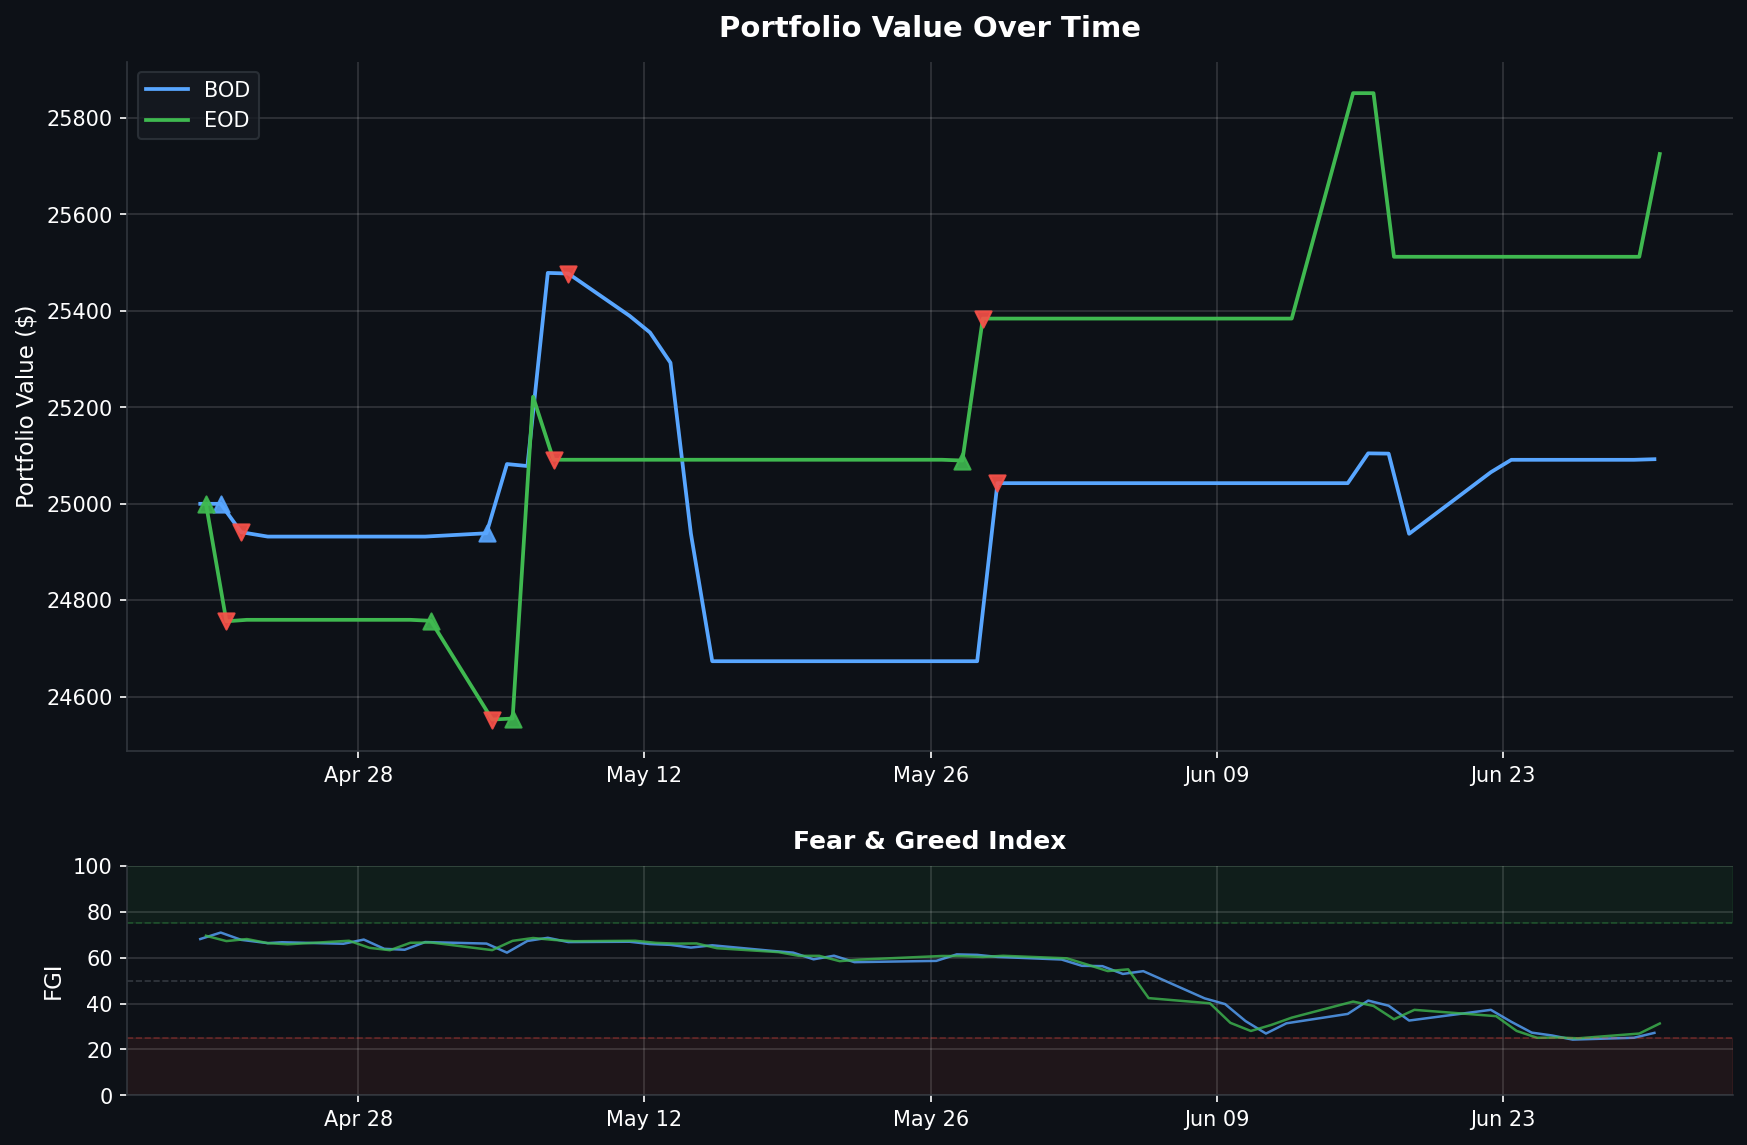
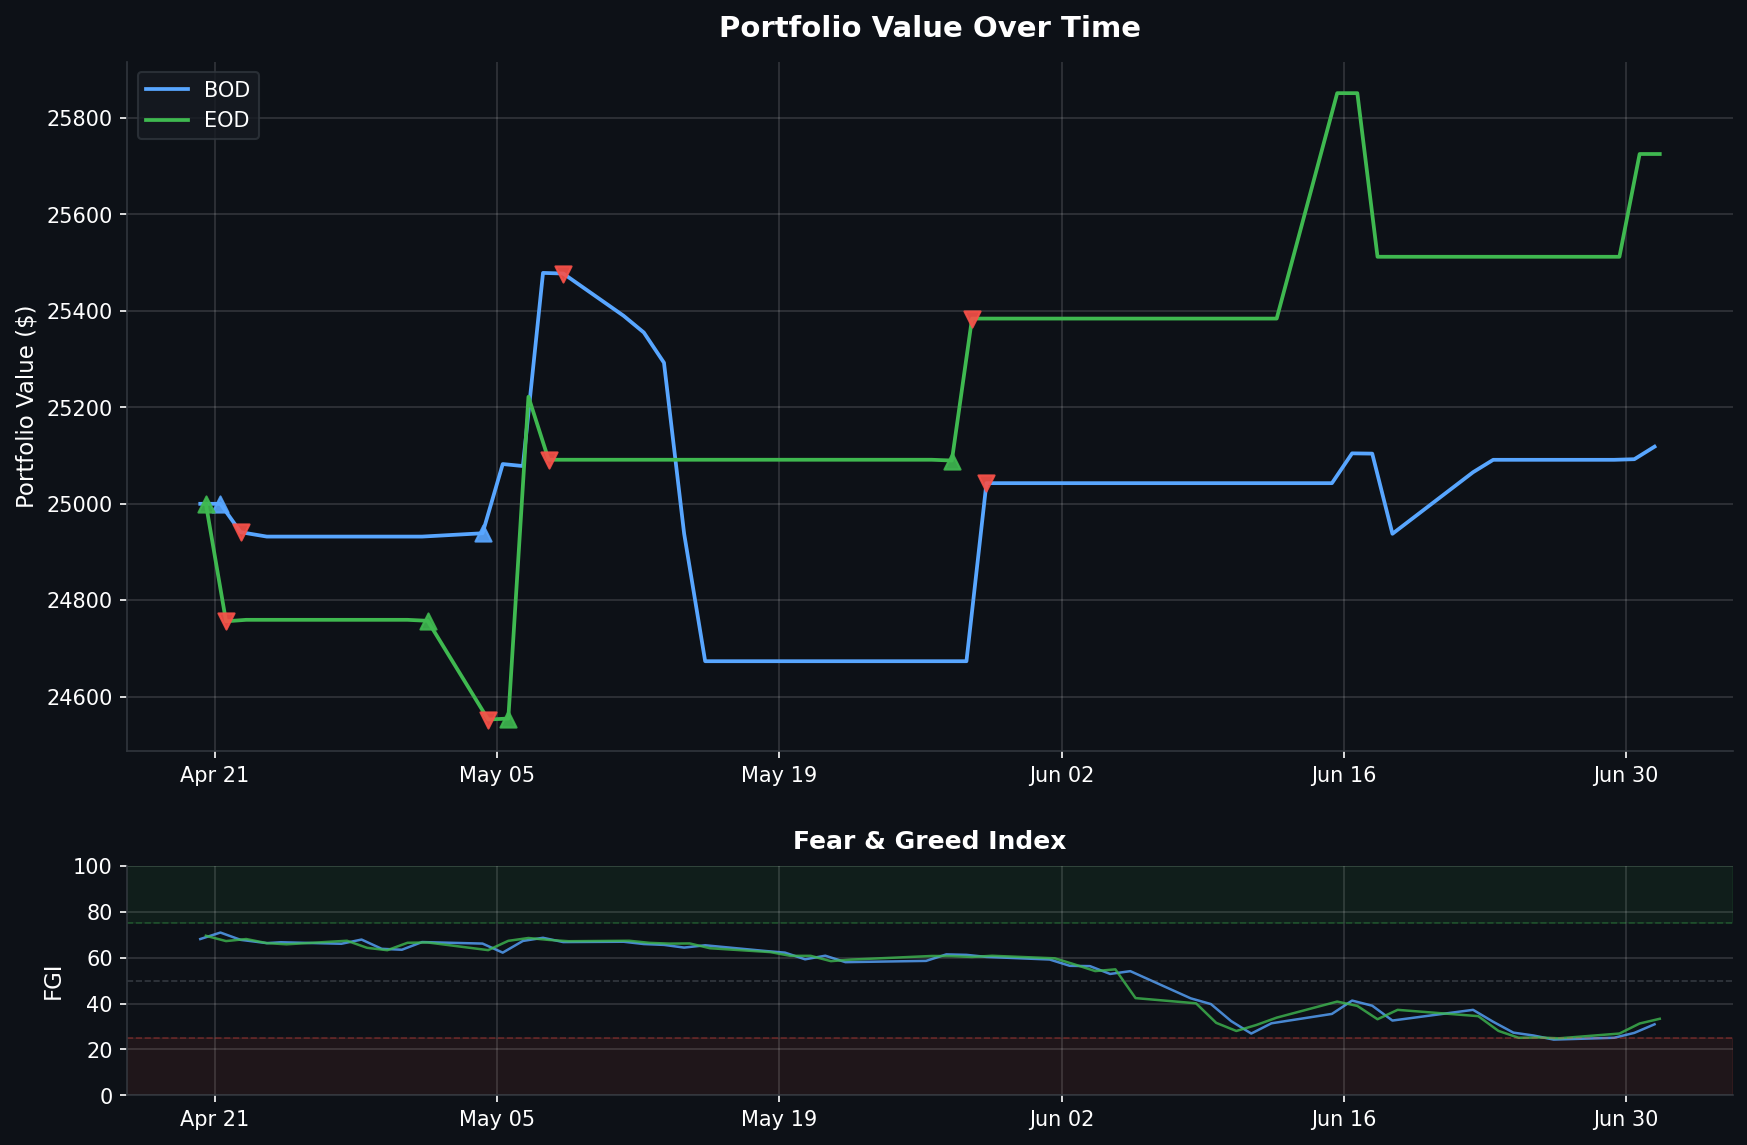
Daily data backup 2026-07-01

diff --git a/README.md b/README.md
@@ -1,6 +1,6 @@
 # Fear & Greed Index Trading Bot
 
-> Dashboard auto-updated daily at market close | Last update: **2026-06-30 13:30 PST**
+> Dashboard auto-updated daily at market close | Last update: **2026-07-01 13:30 PST**
 
 ![Portfolio Performance](assets/portfolio_chart.png)
 
@@ -10,14 +10,14 @@
 
 | Metric | Value |
 |--------|-------|
-| Portfolio Value | **$25,092.50** |
-| Buying Power | $49,619.25 |
-| Current FGI | 27.23 |
+| Portfolio Value | **$25,118.51** |
+| Buying Power | $100,474.04 |
+| Current FGI | 30.97 |
 | Position | FLAT |
 | Total P&L | **$+995** |
 | Win Rate | 50% (1W / 1L) |
 | Total Round Trips | 2 |
-| Last Signal | NO_ACTION @ 2026-06-30 09:36 |
+| Last Signal | NO_ACTION @ 2026-07-01 09:38 |
 
 <details>
 <summary>Trade History (2 trades)</summary>
@@ -34,11 +34,11 @@
 
 | Time | Action | Price | FGI | Momentum | Velocity | Volatility | Reason |
 |------|--------|-------|-----|----------|----------|------------|--------|
+| 07-01 09:38 | NO_ACTION | $742.63 | 30.97 | 3.20 | 2.22 | 0.55 | SELL incomplete - still holding 51 after 5 attempts |
 | 06-30 09:36 | NO_ACTION | $741.14 | 27.23 | 1.68 | 0.38 | 0.55 | BUY did not fill after 3 attempts |
 | 06-29 09:35 | NO_ACTION | $738.57 | 25.11 | -0.06 | -0.74 | 0.55 | Insufficient momentum/velocity for entry |
 | 06-26 09:35 | NO_ACTION | $728.10 | 24.31 | -1.60 | -2.58 | 0.55 | Insufficient momentum/velocity for entry |
 | 06-25 09:35 | NO_ACTION | $737.49 | 26.09 | -2.41 | -3.72 | 0.55 | Insufficient momentum/velocity for entry |
-| 06-24 09:35 | NO_ACTION | $736.74 | 27.34 | -4.88 | -1.75 | 0.55 | Insufficient momentum/velocity for entry |
 
 </details>
 
@@ -48,14 +48,14 @@
 
 | Metric | Value |
 |--------|-------|
-| Portfolio Value | **$25,725.36** |
-| Buying Power | $102,901.44 |
-| Current FGI | 31.31 |
+| Portfolio Value | **$25,725.33** |
+| Buying Power | $102,901.32 |
+| Current FGI | 33.37 |
 | Position | FLAT |
 | Total P&L | **$+302** |
 | Win Rate | 50% (2W / 2L) |
 | Total Round Trips | 4 |
-| Last Signal | NO_ACTION @ 2026-06-30 15:52 |
+| Last Signal | NO_ACTION @ 2026-07-01 15:50 |
 
 <details>
 <summary>Trade History (4 trades)</summary>
@@ -74,11 +74,11 @@
 
 | Time | Action | Price | FGI | Momentum | Velocity | Volatility | Reason |
 |------|--------|-------|-----|----------|----------|------------|--------|
+| 07-01 15:50 | NO_ACTION | $746.60 | 33.37 | 2.83 | 2.84 | 0.55 | BUY did not fill after 3 attempts |
 | 06-30 15:52 | NO_ACTION | $746.88 | 31.31 | 3.61 | 2.03 | 0.55 | SELL incomplete - still holding 34 after 5 attempts |
 | 06-29 15:50 | NO_ACTION | $740.70 | 26.94 | 1.26 | 0.61 | 0.55 | BUY did not fill after 3 attempts |
 | 06-26 15:50 | NO_ACTION | $733.12 | 24.86 | -0.20 | -1.08 | 0.55 | Insufficient momentum/velocity for entry |
 | 06-25 15:50 | NO_ACTION | $732.10 | 25.23 | -0.91 | -3.09 | 0.55 | Insufficient momentum/velocity for entry |
-| 06-24 15:50 | NO_ACTION | $732.08 | 25.1 | -4.13 | -4.05 | 0.55 | Insufficient momentum/velocity for entry |
 
 </details>
 
